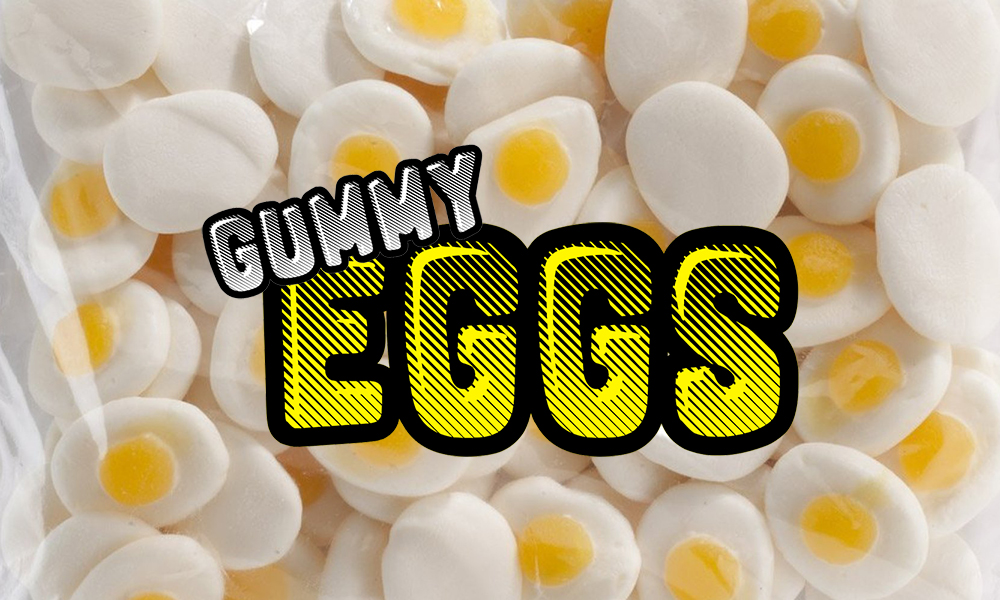
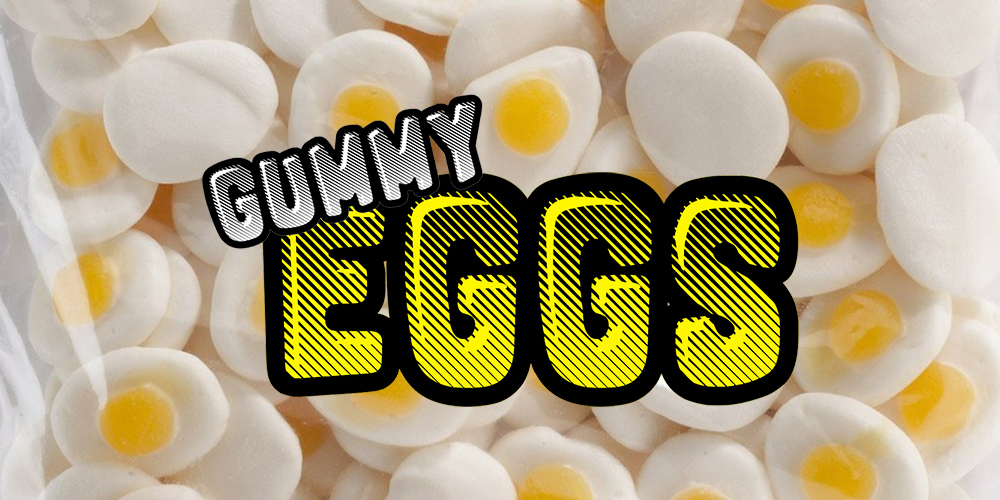
fix carousel to display images properly, crop carousel images

diff --git a/GummiBearKingdom/GummiBearKingdom/wwwroot/css/site.css b/GummiBearKingdom/GummiBearKingdom/wwwroot/css/site.css
@@ -24,9 +24,15 @@ textarea {
 }
 
 /* Make .svg files in the carousel display properly in older browsers */
-.carousel-inner .item img[src$=".svg"] {
+.carousel-inner .item img {
     width: 100%;
-    max-height: 10%;
+    
+}
+
+.item {
+    display: block;
+    margin-left: auto;
+    margin-right: auto;
 }
 
 /* Hide/rearrange for smaller screens */
